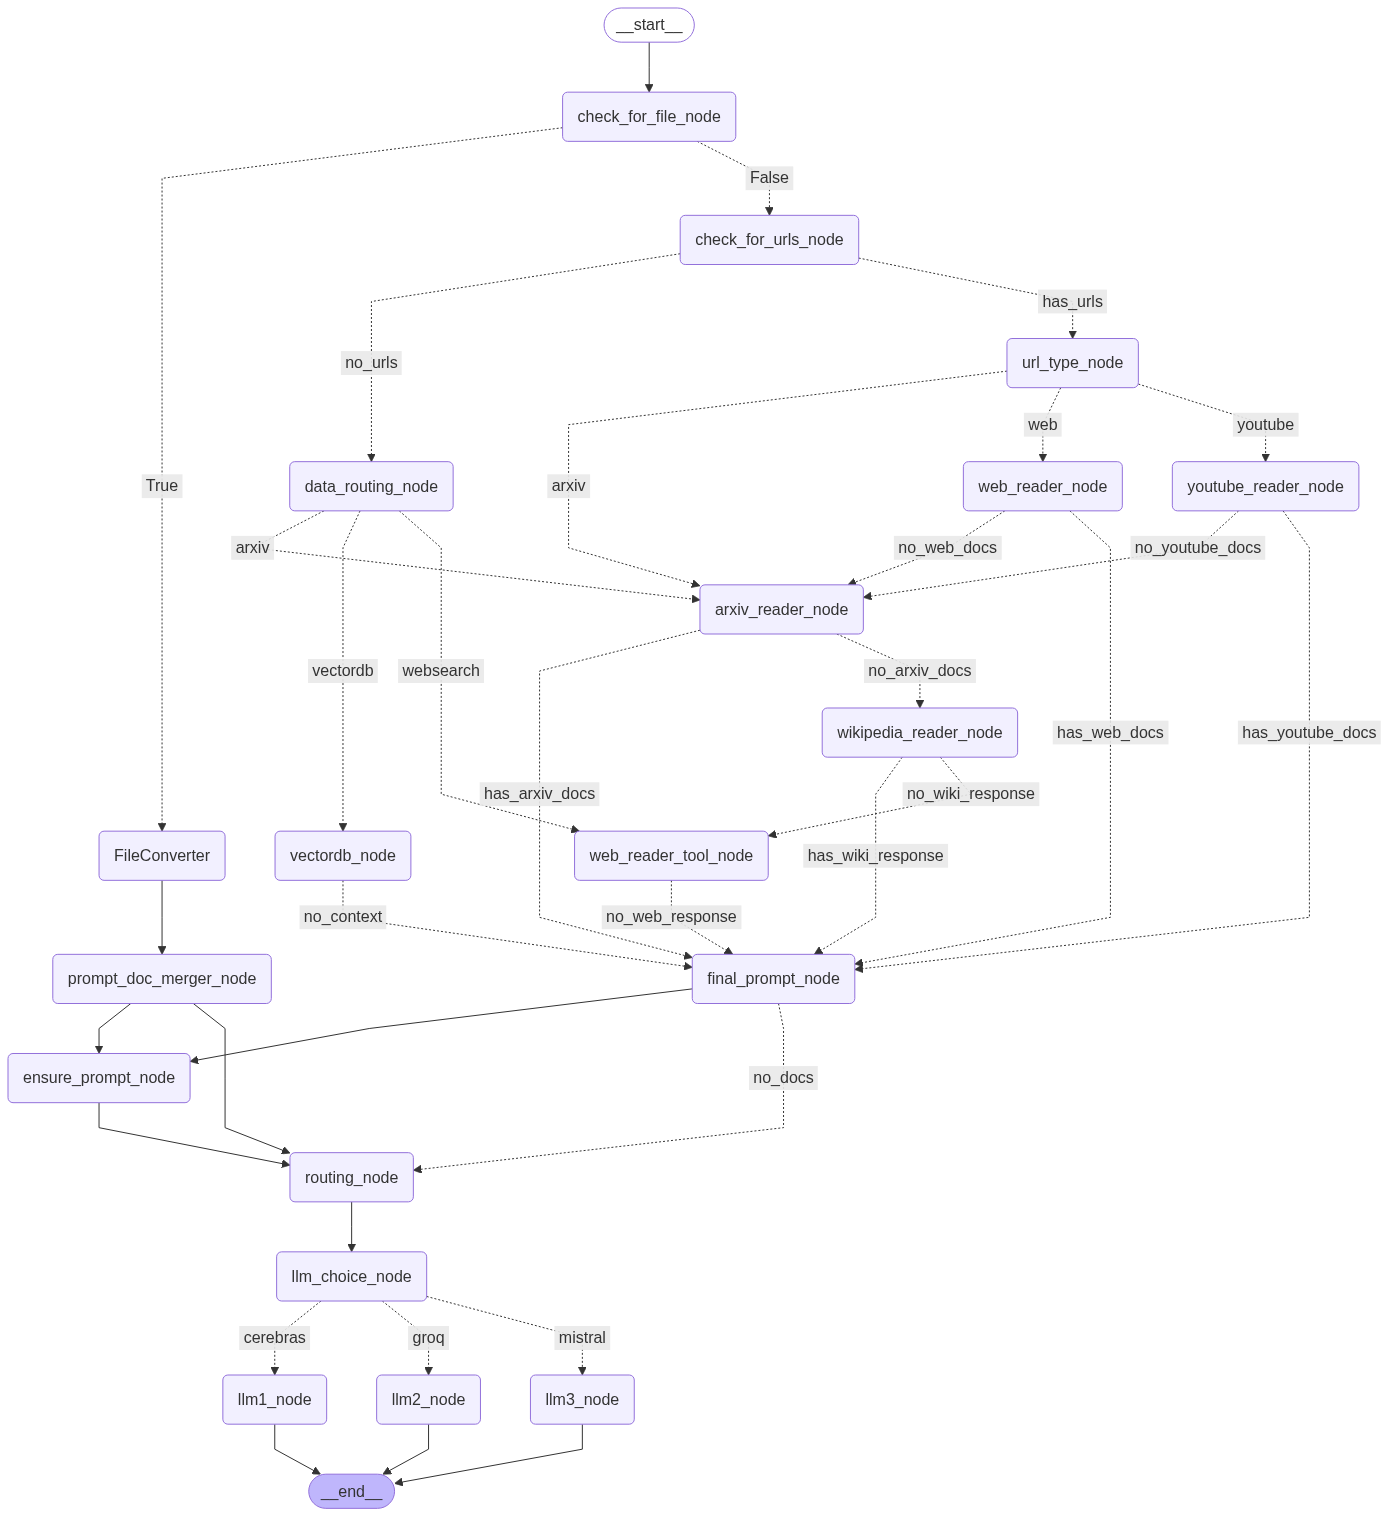
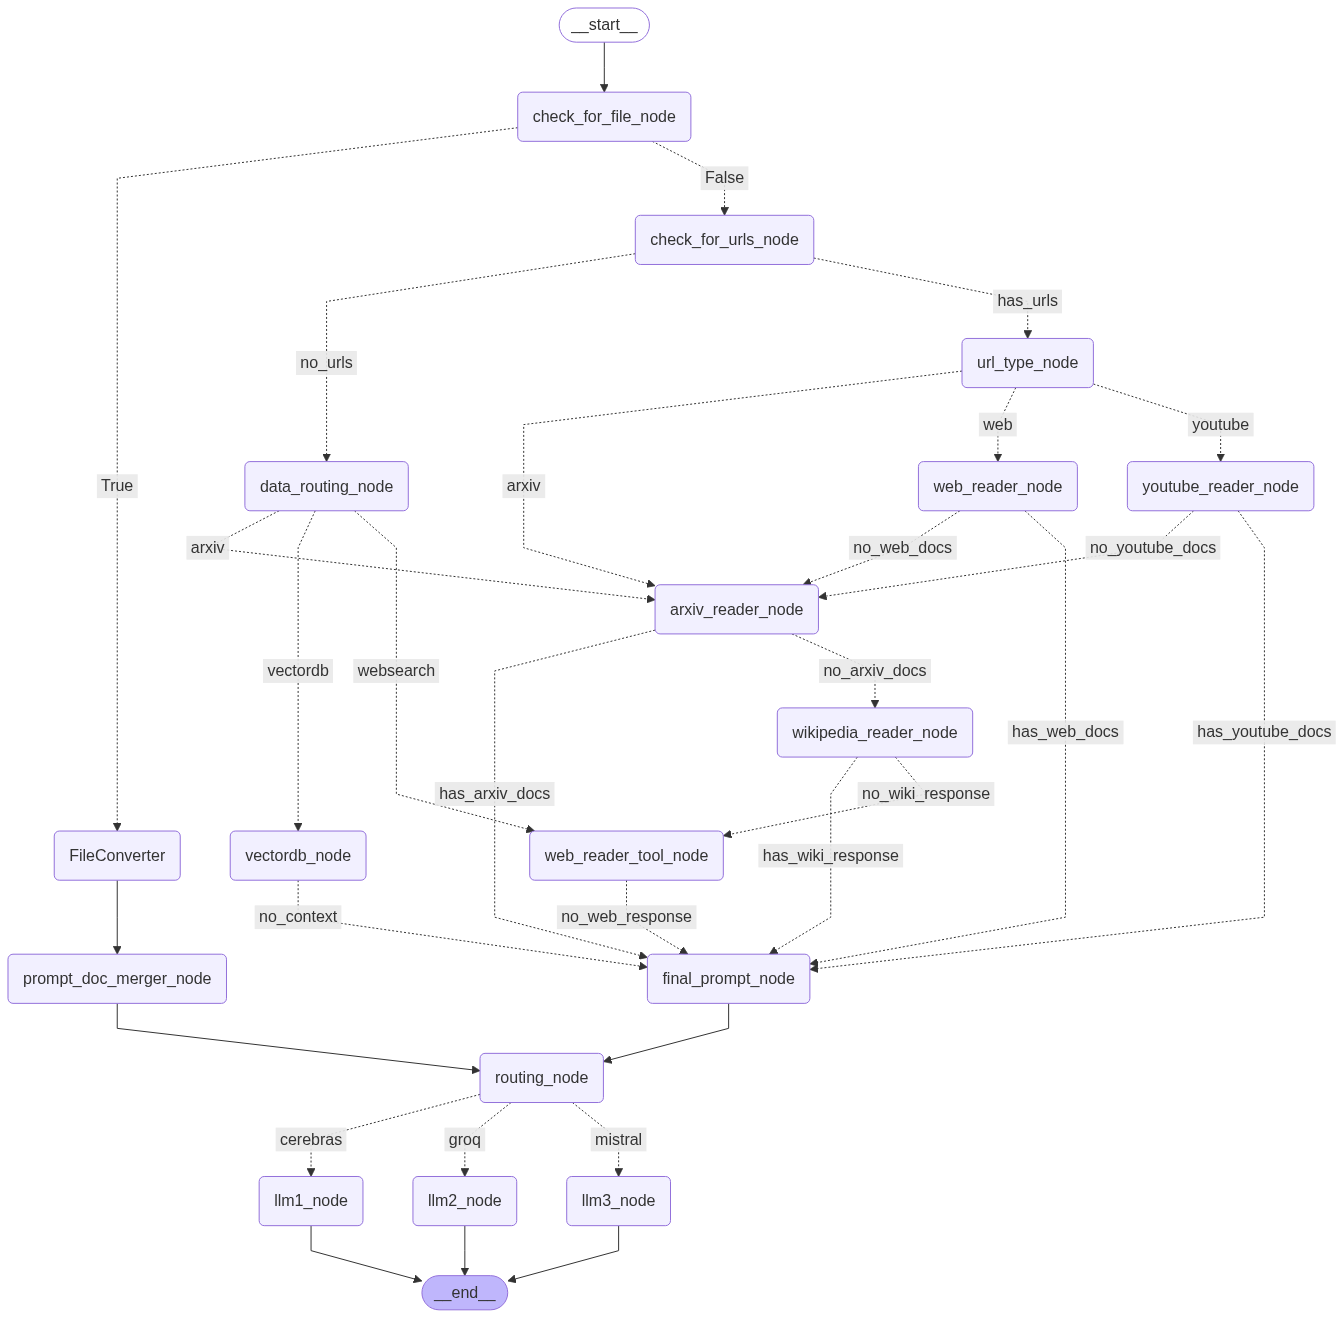
bug fixing

diff --git a/LLM_MNIT_PROJECT/workflow.py b/LLM_MNIT_PROJECT/workflow.py
@@ -39,16 +39,12 @@ class State(TypedDict):
     isfile: bool
     has_urls: bool
 
-def remove_user_input(state: State):
-    # Helper: copy state and remove user_input key to avoid concurrent updates error
-    branch_state = state.copy()
-    branch_state.pop("user_input", None)
-    return branch_state
+
 
 def check_for_file_node(state: State):
     state["isfile"] = is_file(state["user_input"])
-    branch_state = remove_user_input(state)
-    return {"True": branch_state} if state["isfile"] else {"False": branch_state}
+    print("check_for_file_node:working fine")
+    return state
 
 def FileConverter(state: State):
     state.setdefault("docs", [])
@@ -56,64 +52,65 @@ def FileConverter(state: State):
     for file in files:
         path = save_uploaded_file(file)
         state["docs"] += docreader(path)
+    print("FileConverter:working fine")
     return state
 
 def prompt_doc_merger_node(state: State):
-    text = state["user_input"].get("text", "") if isinstance(state["user_input"], dict) else state["user_input"]
+    text = state["user_input"].get("text", "")
     state["merged_prompt"] = doc_prompt_merger(text, state.get("docs", [])) if state.get("docs") else text
+    print("prompt_doc_merger_node:working fine")
     return state
 
 def check_for_urls_node(state: State):
-    text = state["user_input"].get("text", "") if isinstance(state["user_input"], dict) else state["user_input"]
+    text = state["user_input"].get("text", "")
     urls = find_urls(text)
     state.setdefault("urls", []).extend(urls)
     state["has_urls"] = bool(urls)
-    branch_state = remove_user_input(state)
-    return {"has_urls": branch_state} if urls else {"no_urls": branch_state}
+    print("check_for_urls_node:working fine")
+    return state
 
 def url_type_node(state: State):
     state["url_types"] = type_url(state.get("urls", []))
-    branch_state = remove_user_input(state)
-    if state["url_types"].get("youtube"):
-        return {"youtube": branch_state}
-    elif state["url_types"].get("arxiv"):
-        return {"arxiv": branch_state}
-    return {"web": branch_state}
+    print("url_type_node:working fine")
+    
+    return state
 
 def youtube_reader_node(state: State):
     state["youtube_docs"] = sum([youtube_reader(url) for url in state["url_types"].get("youtube", [])], [])
-    branch_state = remove_user_input(state)
-    return {"has_youtube_docs": branch_state} if state["youtube_docs"] else {"no_youtube_docs": branch_state}
+    print("youtube_reader_node:working fine")
+    return state
 
 def web_reader_node(state: State):
+    print("web_reader_node:working fine")
     state["web_docs"] = sum([web_reader(url) for url in state["url_types"].get("web", [])], [])
-    branch_state = remove_user_input(state)
-    return {"has_web_docs": branch_state} if state["web_docs"] else {"no_web_docs": branch_state}
+    return state
 
 def arxiv_reader_node(state: State):
+    print("arxiv_reader_node:working fine")
     text = state["user_input"].get("text", "") if isinstance(state["user_input"], dict) else state["user_input"]
     state["arxiv_docs"] = arxiv_tool(text)
-    branch_state = remove_user_input(state)
-    return {"has_arxiv_docs": branch_state} if state["arxiv_docs"] else {"no_arxiv_docs": branch_state}
+    return state
 
 def wikipedia_reader_node(state: State):
+    print("wikipedia_reader_node:working fine")
     text = state["user_input"].get("text", "") if isinstance(state["user_input"], dict) else state["user_input"]
     state["wiki_response"] = wikipedia_tool(text)
-    branch_state = remove_user_input(state)
-    return {"has_wiki_response": branch_state} if state["wiki_response"] else {"no_wiki_response": branch_state}
+    return state
 
 def web_reader_tool_node(state: State):
+    print("web_reader_tool:working fine")
     text = state["user_input"].get("text", "") if isinstance(state["user_input"], dict) else state["user_input"]
     state["web_response"] = web_tool(text)
-    branch_state = remove_user_input(state)
-    return {"has_web_response": branch_state} if state["web_response"] else {"no_web_response": branch_state}
+    return state
 
 def final_prompt_node(state: State):
+    print("final_prompt_node:working fine")
     docs_lists = [
         state.get("docs") or [],
         state.get("arxiv_docs") or [],
         state.get("youtube_docs") or [],
-        state.get("web_docs") or []
+        state.get("web_docs") or [],
+        state.get("vectordb_docs") or [],
     ]
     combined_docs = []
     for doc_list in docs_lists:
@@ -134,30 +131,23 @@ def final_prompt_node(state: State):
     print(f"[final_prompt_node] docs: {len(combined_docs)}, wiki_response: {bool(state.get('wiki_response'))}, web_response: {bool(state.get('web_response'))}, context: {bool(state.get('context'))}")
     print(f"[final_prompt_node] final_prompt set? {state['final_prompt'][:50]}")
 
-    branch_state = remove_user_input(state)
-    if context:
-        return {"has_docs": branch_state}
-    else:
-        return {"no_docs": branch_state}
-
-def ensure_prompt_node(state: State):
-    if not state.get("merged_prompt") and not state.get("final_prompt"):
-        text = state["user_input"].get("text", "") if isinstance(state["user_input"], dict) else state["user_input"]
-        state["final_prompt"] = f"User Input: {text}"
-        print("[ensure_prompt_node] final_prompt forcibly set.")
     return state
+
+
 
 def vectordb_node(state: State):
     retriever = get_retriever()
     text = state["user_input"].get("text", "") if isinstance(state["user_input"], dict) else state["user_input"]
     state["context"] = retriever.invoke(text)
-    branch_state = remove_user_input(state)
-    return {"has_context": branch_state} if state["context"] else {"no_context": branch_state}
+    print(f"[vectordb_node] context set? {bool(state['context'])}")
+    return {"has_context": state} if state["context"] else {"no_context": state}
 
 def llm1_node(state: State):
     prompt = state.get("merged_prompt") or state.get("final_prompt")
     if prompt is None:
         raise ValueError("Neither 'merged_prompt' nor 'final_prompt' is set in the state before calling llm1_node.")
+    
+    print(f"[llm1_node] Using prompt: {prompt[:50]}...")  # Log first 50 chars of prompt
     state["response"] = llm1.invoke(prompt)
     return state
 
@@ -165,6 +155,7 @@ def llm2_node(state: State):
     prompt = state.get("merged_prompt") or state.get("final_prompt")
     if prompt is None:
         raise ValueError("Neither 'merged_prompt' nor 'final_prompt' is set in the state before calling llm2_node.")
+    print(f"[llm2_node] Using prompt: {prompt[:50]}...")  # Log first 50 chars of prompt
     state["response"] = llm2.invoke(prompt)
     return state
 
@@ -172,6 +163,7 @@ def llm3_node(state: State):
     prompt = state.get("merged_prompt") or state.get("final_prompt")
     if prompt is None:
         raise ValueError("Neither 'merged_prompt' nor 'final_prompt' is set in the state before calling llm3_node.")
+    print(f"[llm3_node] Using prompt: {prompt[:50]}...")  # Log first 50 chars of prompt
     state["response"] = llm3.invoke(prompt)
     return state
 
@@ -196,10 +188,11 @@ Prompt: {input}
 """)
 
 def data_routing_node(state: State):
-    text = state["user_input"].get("text", "") if isinstance(state["user_input"], dict) else state["user_input"]
+    text = state["user_input"].get("text", "")
     result = router_llm.invoke(data_routing_prompt.invoke({"input": text}))
     data_choice = result.content.strip().lower() if hasattr(result, "content") else str(result).lower()
-    
+    print(f"[data_routing_node] Selected context: {data_choice}")
+
     # Fallback to vectordb if unexpected
     if data_choice not in ["vectordb", "websearch", "arxiv"]:
         data_choice = "vectordb"
@@ -209,19 +202,18 @@ def data_routing_node(state: State):
     # Optionally remove user_input if needed to avoid update errors
     # state = remove_user_input(state)  # if defined
     
-    return {data_choice: state}
+    return state
 
 
 def routing_node(state: State):
     text = state["user_input"].get("text", "") if isinstance(state["user_input"], dict) else state["user_input"]
-    state["llm_choice"] = router_llm.invoke(routing_prompt.invoke({"input": text})).content.strip().lower()
-    branch_state = remove_user_input(state)
-    return branch_state
+    result=router_llm.invoke(routing_prompt.invoke({"input": text})).content.strip().lower()
+    if "llm_choice" not in state or state["llm_choice"] is not result:
+        # Only set llm_choice if it doesn't already exist or is None
+        state["llm_choice"] = result
+    print(f"[routing_node] Selected LLM: {state['llm_choice']}")
+    return state
 
-def llm_choice_node(state: State):
-    llm = state.get("llm_choice", "cerebras")  # default to cerebras
-    branch_state = remove_user_input(state)
-    return {llm: branch_state} if llm in ["groq", "cerebras", "mistral"] else {"cerebras": branch_state}
 
 def create_workflow():
     graph = StateGraph(State)
@@ -240,21 +232,21 @@ def create_workflow():
     graph.add_node("vectordb_node", vectordb_node)
     graph.add_node("final_prompt_node", final_prompt_node)
     graph.add_node("routing_node", routing_node)
-    graph.add_node("llm_choice_node", llm_choice_node)
+   
     graph.add_node("llm1_node", llm1_node)
     graph.add_node("llm2_node", llm2_node)
     graph.add_node("llm3_node", llm3_node)
-    graph.add_node("ensure_prompt_node", ensure_prompt_node)
+    
 
     graph.add_edge(START, "check_for_file_node")
-    graph.add_edge("routing_node", "llm_choice_node")
-    graph.add_edge("prompt_doc_merger_node", "ensure_prompt_node")
-    graph.add_edge("final_prompt_node", "ensure_prompt_node")
-    graph.add_edge("ensure_prompt_node", "routing_node")
+   
+    graph.add_edge("prompt_doc_merger_node", "routing_node")
+    graph.add_edge("final_prompt_node", "routing_node")
+    
 
     # LLM selection
     graph.add_conditional_edges(
-        "llm_choice_node",
+        "routing_node",
         lambda state: state["llm_choice"],
         path_map={
             "groq": "llm2_node",

diff --git a/LLM_MNIT_PROJECT/app.py b/LLM_MNIT_PROJECT/app.py
@@ -20,28 +20,31 @@ prompt = st.chat_input(placeholder="Or enter your query here:",accept_file="mult
 
 # Combine inputs
 if prompt:
+    user_input = {"text": prompt.text, "files": prompt.files} if hasattr(prompt, 'files') else {"text": prompt, "files": []}
+    if "message" not in st.session_state:
+        text = user_input["text"] if isinstance(user_input["text"], str) else str(user_input["text"])
+        st.session_state["message"] = text
+        with st.chat_message(name ="user"):
+            st.write(text)
+    else:
+        text = user_input["text"] if isinstance(user_input["text"], str) else str(user_input["text"])
+        st.session_state["message"] += f"\n{text}"
     with st.spinner("Processing your input..."):
-        user_input = {"text": prompt.text, "files": prompt.files} if hasattr(prompt, 'files') else {"text": prompt, "files": []}
+        
 
         
-        if "message" not in st.session_state:
-            text = user_input["text"] if isinstance(user_input["text"], str) else str(user_input["text"])
-            st.session_state["message"] = text
-            with st.chat_message(name ="user"):
-                st.write(text)
-        else:
-            text = user_input["text"] if isinstance(user_input["text"], str) else str(user_input["text"])
-            st.session_state["message"] += f"\n{text}"
-
+        
+        
+        graph = create_workflow()
         # Initial state to send to LangGraph
         state = {"user_input": user_input}
 
         # Call the LangGraph
-        graph = create_workflow()
+        
         result = graph.invoke(state)
         response_text = result.get("response") if isinstance(result, dict) else None
         # Display result
-        st.subheader("📤 Result")
+        
         with st.chat_message("assistant"):
             st.write(response_text.content)
 

diff --git a/LLM_MNIT_PROJECT/utils.py b/LLM_MNIT_PROJECT/utils.py
@@ -7,6 +7,7 @@ from langchain_community.tools import WikipediaQueryRun,ArxivQueryRun,JinaSearch
 from langchain_community.utilities import WikipediaAPIWrapper, ArxivAPIWrapper
 import os
 from dotenv import load_dotenv
+import json
 load_dotenv()
 def has_url(prompt):
     url_pattern = r'https?://\S+'
@@ -44,12 +45,26 @@ def docreader(file_path):
 def doc_prompt_merger(prompt, doc):
     if not doc:
         return prompt
+
+    # If single Document object
+    if hasattr(doc, "page_content"):
+        return f"{prompt}\n\nDocument:\n{doc.page_content}"
+
+    # If list of Document objects
+    if isinstance(doc, list):
+        # If items are Document objects, extract page_content, else treat as strings
+        if len(doc) > 0 and hasattr(doc[0], "page_content"):
+            content = "\n".join(d.page_content for d in doc)
+        else:
+            content = "\n".join(str(d) for d in doc)
+        return f"{prompt}\n\nDocuments:\n{content}"
+
+    # If it's a raw string
     if isinstance(doc, str):
         return f"{prompt}\n\nDocument:\n{doc}"
-    elif isinstance(doc, list):
-        return f"{prompt}\n\nDocuments:\n" + "\n".join(doc)
-    else:
-        raise ValueError("Document must be a string or a list of strings.")
+
+    raise ValueError("Document must be a string or a list of Document objects or strings.")
+
 def type_url(urls):
     urlty={"youtube": [], "arxiv": [], "web": []}
     for url in urls:
@@ -96,5 +111,7 @@ def web_tool(prompt):
         raise ValueError("Prompt cannot be empty.")
     jina_search = JinaSearch(api_key=os.getenv("JINA_API_KEY"))
     
-    response = jina_search.run(prompt)
-    return response
+    response = jina_search.invoke({"query": prompt})
+    response=json.loads(response)
+    final_response=response[0].get("link","")
+    return final_response

diff --git a/LLM_MNIT_PROJECT/vector.py b/LLM_MNIT_PROJECT/vector.py
@@ -35,7 +35,7 @@ def get_retriever() -> VectorStoreRetriever:
             "k": 5,
             "filter": None,
             "search_type": "hybrid",
-            "score_threshold": 0.5,
+            "score_threshold": 0.3,
         }
     )
 
